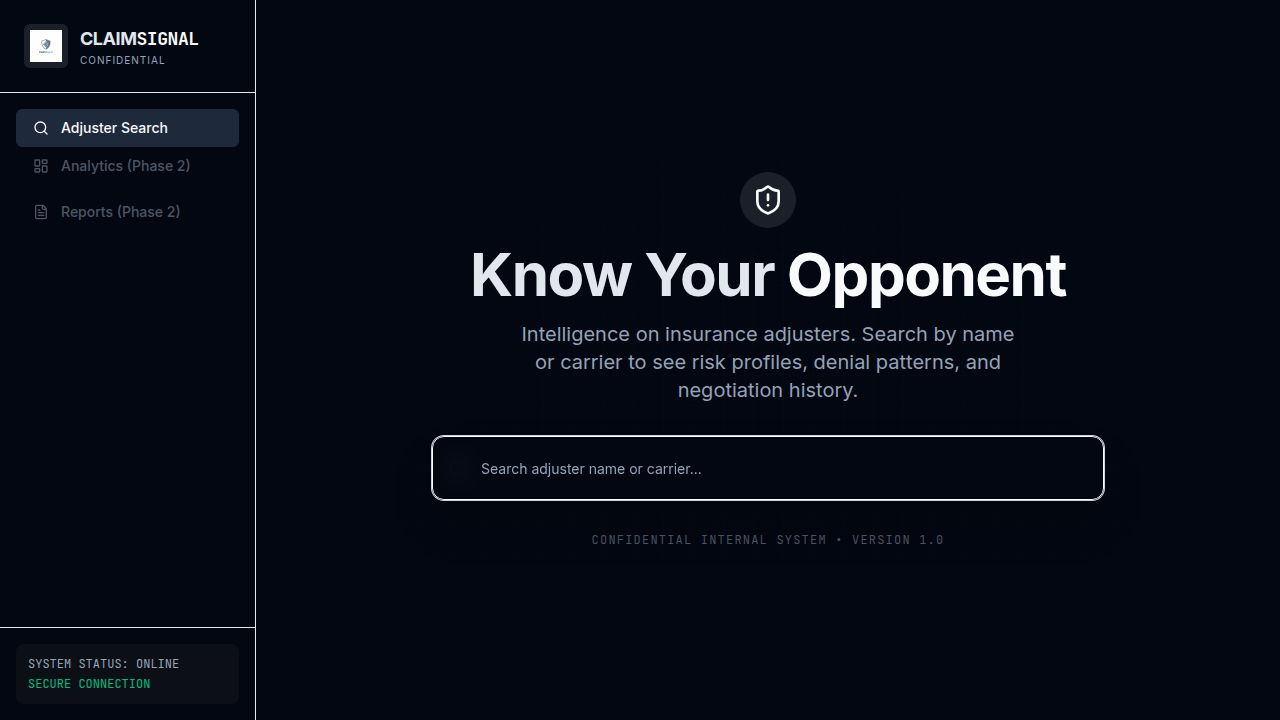
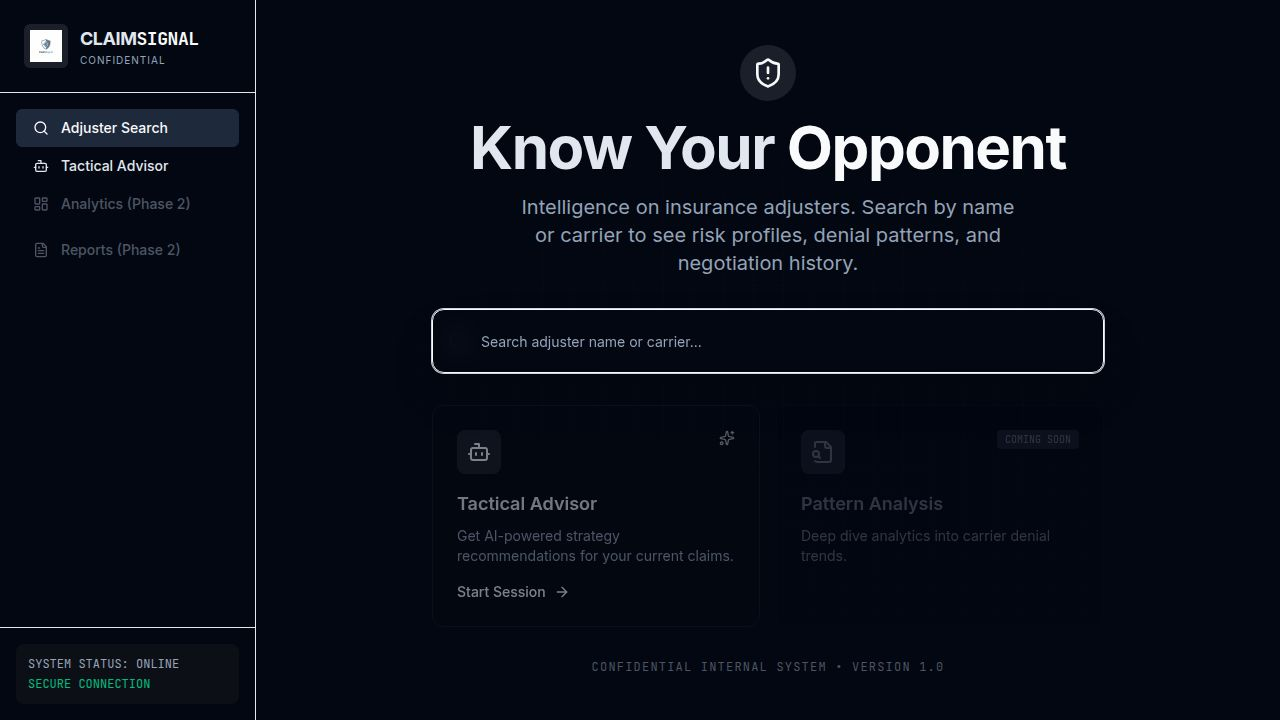
Add an AI assistant for strategy and negotiation advice
Integrates a new AI chat interface at `/chat` with a sidebar link and home page CTA. Includes simulated responses and typing indicators.

Replit-Commit-Author: Agent
Replit-Commit-Session-Id: 07524299-6e6a-4e7c-8411-64a70d26093b
Replit-Commit-Checkpoint-Type: full_checkpoint
Replit-Commit-Event-Id: 3ab448ae-44ac-459e-aa3b-77513b758ede
Replit-Commit-Screenshot-Url: https://storage.googleapis.com/screenshot-production-us-central1/79fd6955-13be-4b14-acca-dce5b324f59c/07524299-6e6a-4e7c-8411-64a70d26093b/RRon7TD
Replit-Helium-Checkpoint-Created: true

diff --git a/client/src/pages/chat.tsx b/client/src/pages/chat.tsx
@@ -1,0 +1,227 @@
+import { useState, useRef, useEffect } from "react";
+import { Layout } from "@/components/layout";
+import { Input } from "@/components/ui/input";
+import { Button } from "@/components/ui/button";
+import { ScrollArea } from "@/components/ui/scroll-area";
+import { Avatar, AvatarFallback, AvatarImage } from "@/components/ui/avatar";
+import { Send, Bot, User, Sparkles, Loader2, StopCircle, ThumbsUp, ThumbsDown, Copy } from "lucide-react";
+import { motion, AnimatePresence } from "framer-motion";
+import { useToast } from "@/hooks/use-toast";
+
+type Message = {
+  id: string;
+  role: "user" | "assistant";
+  content: string;
+  timestamp: Date;
+};
+
+export default function Chat() {
+  const [messages, setMessages] = useState<Message[]>([
+    {
+      id: "1",
+      role: "assistant",
+      content: "I am your claims intelligence assistant. I can analyze adjuster profiles, suggest negotiation strategies, or draft correspondence. How can I help you today?",
+      timestamp: new Date()
+    }
+  ]);
+  const [input, setInput] = useState("");
+  const [isTyping, setIsTyping] = useState(false);
+  const scrollRef = useRef<HTMLDivElement>(null);
+  const { toast } = useToast();
+
+  useEffect(() => {
+    if (scrollRef.current) {
+      scrollRef.current.scrollIntoView({ behavior: "smooth" });
+    }
+  }, [messages, isTyping]);
+
+  const handleSend = async () => {
+    if (!input.trim()) return;
+
+    const userMessage: Message = {
+      id: Date.now().toString(),
+      role: "user",
+      content: input,
+      timestamp: new Date()
+    };
+
+    setMessages(prev => [...prev, userMessage]);
+    setInput("");
+    setIsTyping(true);
+
+    // Simulate AI delay and response
+    setTimeout(() => {
+      const responses = [
+        "Based on the adjuster's profile, I recommend avoiding early settlement offers. They have a pattern of low-balling initial claims.",
+        "I've analyzed the correspondence. The adjuster is using standard delay tactics. Here is a draft response to push for a timeline...",
+        "That carrier typically responds well to detailed medical chronologies. Ensure you have highlighted the gap in treatment with a valid reason.",
+        "The risk profile for this adjuster is 'Severe'. Proceed with caution and document every phone call immediately.",
+        "I can help you draft a demand letter. What are the key injuries and total medical specials?"
+      ];
+      
+      const randomResponse = responses[Math.floor(Math.random() * responses.length)];
+      
+      const aiMessage: Message = {
+        id: (Date.now() + 1).toString(),
+        role: "assistant",
+        content: randomResponse,
+        timestamp: new Date()
+      };
+
+      setMessages(prev => [...prev, aiMessage]);
+      setIsTyping(false);
+    }, 1500 + Math.random() * 2000); // Random delay 1.5s - 3.5s
+  };
+
+  const handleKeyDown = (e: React.KeyboardEvent) => {
+    if (e.key === "Enter" && !e.shiftKey) {
+      e.preventDefault();
+      handleSend();
+    }
+  };
+
+  const copyToClipboard = (text: string) => {
+    navigator.clipboard.writeText(text);
+    toast({
+      description: "Message copied to clipboard",
+      duration: 2000,
+    });
+  };
+
+  return (
+    <Layout>
+      <div className="flex flex-col h-[calc(100vh-4rem)] max-w-4xl mx-auto p-4 md:p-6 w-full">
+        {/* Header */}
+        <div className="flex items-center justify-between mb-6 pb-4 border-b border-border/40">
+          <div className="flex items-center gap-3">
+            <div className="bg-primary/10 p-2 rounded-lg">
+              <Bot className="w-6 h-6 text-primary" />
+            </div>
+            <div>
+              <h1 className="text-xl font-bold flex items-center gap-2">
+                Tactical Advisor
+                <span className="px-2 py-0.5 rounded-full bg-primary/10 text-primary text-[10px] font-mono uppercase tracking-wider">Beta</span>
+              </h1>
+              <p className="text-xs text-muted-foreground">Powered by Claims Intelligence Engine</p>
+            </div>
+          </div>
+          <Button variant="ghost" size="sm" className="hidden sm:flex gap-2 text-muted-foreground" onClick={() => setMessages([])}>
+            <Sparkles className="w-4 h-4" />
+            New Session
+          </Button>
+        </div>
+
+        {/* Chat Area */}
+        <ScrollArea className="flex-1 pr-4 -mr-4 mb-4">
+          <div className="space-y-6 pb-4">
+            {messages.map((msg) => (
+              <motion.div
+                key={msg.id}
+                initial={{ opacity: 0, y: 10 }}
+                animate={{ opacity: 1, y: 0 }}
+                className={`flex gap-4 ${msg.role === "user" ? "flex-row-reverse" : ""}`}
+              >
+                <Avatar className={`w-8 h-8 md:w-10 md:h-10 border ${msg.role === "assistant" ? "bg-primary/10 border-primary/20" : "bg-muted border-border"}`}>
+                  {msg.role === "assistant" ? (
+                    <div className="w-full h-full flex items-center justify-center">
+                       <Bot className="w-5 h-5 text-primary" />
+                    </div>
+                  ) : (
+                    <AvatarImage src="https://github.com/shadcn.png" />
+                  )}
+                  <AvatarFallback>{msg.role === "assistant" ? "AI" : "ME"}</AvatarFallback>
+                </Avatar>
+
+                <div className={`flex flex-col max-w-[80%] md:max-w-[70%] space-y-2 ${msg.role === "user" ? "items-end" : "items-start"}`}>
+                  <div 
+                    className={`p-4 rounded-2xl shadow-sm text-sm md:text-base leading-relaxed whitespace-pre-wrap ${
+                      msg.role === "user" 
+                        ? "bg-primary text-primary-foreground rounded-tr-none" 
+                        : "bg-card border border-border/50 rounded-tl-none"
+                    }`}
+                  >
+                    {msg.content}
+                  </div>
+                  
+                  {msg.role === "assistant" && (
+                    <div className="flex items-center gap-2 px-1 opacity-0 group-hover:opacity-100 transition-opacity">
+                      <Button variant="ghost" size="icon" className="h-6 w-6 text-muted-foreground hover:text-foreground" onClick={() => copyToClipboard(msg.content)}>
+                        <Copy className="w-3 h-3" />
+                      </Button>
+                      <Button variant="ghost" size="icon" className="h-6 w-6 text-muted-foreground hover:text-foreground">
+                        <ThumbsUp className="w-3 h-3" />
+                      </Button>
+                      <Button variant="ghost" size="icon" className="h-6 w-6 text-muted-foreground hover:text-foreground">
+                        <ThumbsDown className="w-3 h-3" />
+                      </Button>
+                      <span className="text-[10px] text-muted-foreground ml-2">
+                        {msg.timestamp.toLocaleTimeString([], { hour: '2-digit', minute: '2-digit' })}
+                      </span>
+                    </div>
+                  )}
+                </div>
+              </motion.div>
+            ))}
+
+            {isTyping && (
+              <motion.div 
+                initial={{ opacity: 0, y: 10 }}
+                animate={{ opacity: 1, y: 0 }}
+                className="flex gap-4"
+              >
+                <div className="w-8 h-8 md:w-10 md:h-10 rounded-full bg-primary/10 border border-primary/20 flex items-center justify-center">
+                  <Bot className="w-5 h-5 text-primary" />
+                </div>
+                <div className="bg-card border border-border/50 p-4 rounded-2xl rounded-tl-none flex items-center gap-1 min-w-[60px]">
+                  <motion.div 
+                    animate={{ scale: [1, 1.2, 1] }} 
+                    transition={{ repeat: Infinity, duration: 1, ease: "easeInOut", delay: 0 }}
+                    className="w-2 h-2 rounded-full bg-primary/40" 
+                  />
+                  <motion.div 
+                    animate={{ scale: [1, 1.2, 1] }} 
+                    transition={{ repeat: Infinity, duration: 1, ease: "easeInOut", delay: 0.2 }}
+                    className="w-2 h-2 rounded-full bg-primary/40" 
+                  />
+                  <motion.div 
+                    animate={{ scale: [1, 1.2, 1] }} 
+                    transition={{ repeat: Infinity, duration: 1, ease: "easeInOut", delay: 0.4 }}
+                    className="w-2 h-2 rounded-full bg-primary/40" 
+                  />
+                </div>
+              </motion.div>
+            )}
+            <div ref={scrollRef} />
+          </div>
+        </ScrollArea>
+
+        {/* Input Area */}
+        <div className="relative mt-auto pt-2">
+          <div className="relative">
+            <textarea
+              value={input}
+              onChange={(e) => setInput(e.target.value)}
+              onKeyDown={handleKeyDown}
+              placeholder="Ask about negotiation tactics, claim strategy, or draft a response..."
+              className="w-full min-h-[60px] max-h-[180px] p-4 pr-12 bg-muted/50 border border-border/50 rounded-xl resize-none focus:outline-none focus:ring-2 focus:ring-primary/20 focus:border-primary/50 transition-all text-sm md:text-base scrollbar-hide"
+              rows={1}
+            />
+            <div className="absolute right-2 bottom-2">
+              <Button 
+                size="icon" 
+                className={`h-9 w-9 transition-all ${input.trim() ? "opacity-100" : "opacity-50"}`} 
+                disabled={!input.trim() || isTyping}
+                onClick={handleSend}
+              >
+                {isTyping ? <StopCircle className="w-4 h-4" /> : <Send className="w-4 h-4" />}
+              </Button>
+            </div>
+          </div>
+          <p className="text-center text-[10px] text-muted-foreground mt-2">
+            AI can make mistakes. Verify important information.
+          </p>
+        </div>
+      </div>
+    </Layout>
+  );
+}

diff --git a/client/src/pages/home.tsx b/client/src/pages/home.tsx
@@ -1,10 +1,11 @@
 import { Layout } from "@/components/layout";
 import { Input } from "@/components/ui/input";
-import { Search, ArrowRight, ShieldAlert, FileSearch } from "lucide-react";
+import { Search, ArrowRight, ShieldAlert, FileSearch, Bot, Sparkles } from "lucide-react";
 import { useState } from "react";
 import { useLocation } from "wouter";
 import { useStore } from "@/lib/store";
 import { motion } from "framer-motion";
+import { Button } from "@/components/ui/button";
 
 export default function Home() {
   const [, setLocation] = useLocation();
@@ -118,6 +119,47 @@ export default function Home() {
               </motion.div>
             )}
           </div>
+
+          {!query && (
+            <motion.div 
+              initial={{ opacity: 0 }}
+              animate={{ opacity: 1 }}
+              transition={{ delay: 0.5 }}
+              className="grid grid-cols-1 md:grid-cols-2 gap-4"
+            >
+              <div 
+                className="bg-card/50 backdrop-blur-sm border border-border/50 p-6 rounded-xl hover:bg-card/80 transition-all cursor-pointer group"
+                onClick={() => setLocation('/chat')}
+              >
+                <div className="flex items-start justify-between mb-4">
+                  <div className="bg-primary/10 p-2.5 rounded-lg">
+                    <Bot className="w-6 h-6 text-primary" />
+                  </div>
+                  <Sparkles className="w-4 h-4 text-primary animate-pulse" />
+                </div>
+                <h3 className="text-lg font-semibold mb-2 group-hover:text-primary transition-colors">Tactical Advisor</h3>
+                <p className="text-sm text-muted-foreground mb-4">
+                  Get AI-powered strategy recommendations for your current claims.
+                </p>
+                <div className="flex items-center text-sm text-primary font-medium">
+                  Start Session <ArrowRight className="w-4 h-4 ml-2 group-hover:translate-x-1 transition-transform" />
+                </div>
+              </div>
+
+              <div className="bg-card/30 border border-border/30 p-6 rounded-xl opacity-60">
+                <div className="flex items-start justify-between mb-4">
+                  <div className="bg-muted p-2.5 rounded-lg">
+                    <FileSearch className="w-6 h-6 text-muted-foreground" />
+                  </div>
+                  <span className="text-[10px] uppercase font-mono bg-muted px-2 py-0.5 rounded text-muted-foreground">Coming Soon</span>
+                </div>
+                <h3 className="text-lg font-semibold mb-2 text-muted-foreground">Pattern Analysis</h3>
+                <p className="text-sm text-muted-foreground mb-4">
+                  Deep dive analytics into carrier denial trends.
+                </p>
+              </div>
+            </motion.div>
+          )}
           
           <div className="text-center">
             <p className="text-xs text-muted-foreground/50 uppercase tracking-widest font-mono">

diff --git a/client/src/components/layout.tsx b/client/src/components/layout.tsx
@@ -1,5 +1,5 @@
 import { Link, useLocation } from "wouter";
-import { Shield, Search, LayoutDashboard, FileText, Menu } from "lucide-react";
+import { Shield, Search, LayoutDashboard, FileText, Menu, Bot } from "lucide-react";
 import { useState } from "react";
 import { Sheet, SheetContent, SheetTrigger, SheetTitle, SheetDescription } from "@/components/ui/sheet";
 import { Button } from "@/components/ui/button";
@@ -30,6 +30,12 @@ export function Layout({ children }: { children: React.ReactNode }) {
           <Button variant={location === "/" ? "secondary" : "ghost"} className="w-full justify-start gap-3">
             <Search className="w-4 h-4" />
             Adjuster Search
+          </Button>
+        </Link>
+        <Link href="/chat">
+          <Button variant={location === "/chat" ? "secondary" : "ghost"} className="w-full justify-start gap-3">
+            <Bot className="w-4 h-4" />
+            Tactical Advisor
           </Button>
         </Link>
         <Button variant="ghost" className="w-full justify-start gap-3 text-muted-foreground" disabled>

diff --git a/client/src/App.tsx b/client/src/App.tsx
@@ -6,11 +6,13 @@ import { TooltipProvider } from "@/components/ui/tooltip";
 import NotFound from "@/pages/not-found";
 import Home from "@/pages/home";
 import AdjusterProfile from "@/pages/adjuster";
+import Chat from "@/pages/chat";
 
 function Router() {
   return (
     <Switch>
       <Route path="/" component={Home} />
+      <Route path="/chat" component={Chat} />
       <Route path="/adjuster/:id" component={AdjusterProfile} />
       <Route component={NotFound} />
     </Switch>
